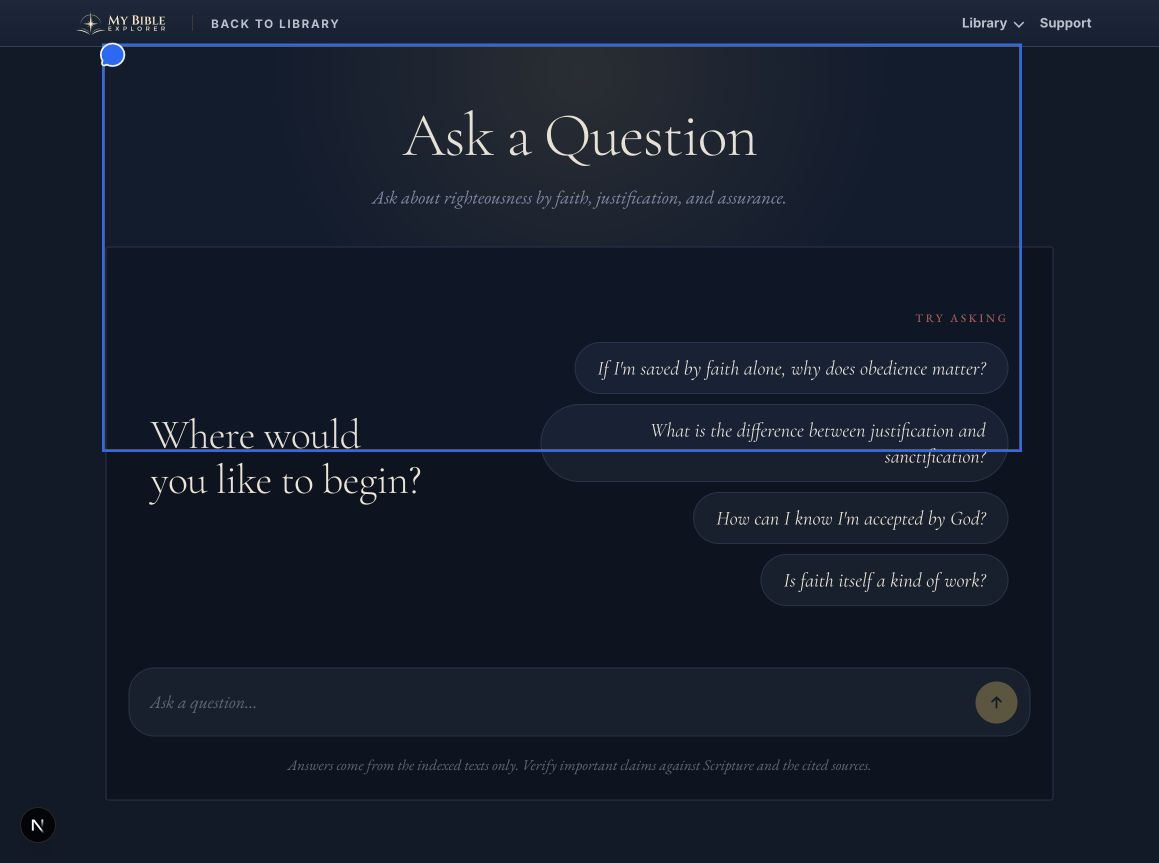
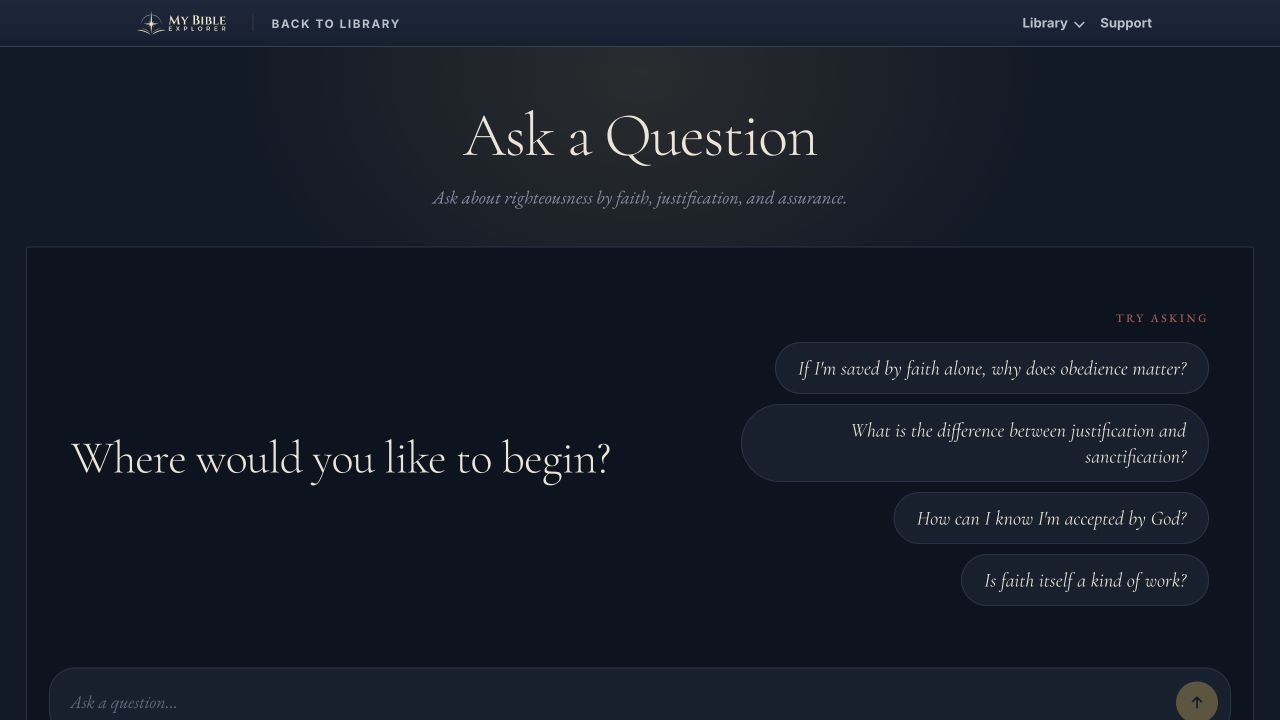
commit

diff --git a/index.html b/index.html
@@ -455,7 +455,7 @@
       <!-- SET A -->
       <a class="frame" href="https://salvation.mybibleexplorer.com/" target="_blank" rel="noopener noreferrer">
         <div class="chrome"><span class="dots"><i></i><i></i><i></i></span><span class="addr">salvation.mybibleexplorer.com</span></div>
-        <div class="shot s-salvation"><img src="screenshots/salvation.png?v=20260908" alt="Salvation: ask about righteousness by faith" loading="lazy" decoding="async" onerror="this.remove()" onload="this.parentNode.classList.add('has-img')"><h4>Salvation</h4></div>
+        <div class="shot s-salvation"><img src="screenshots/salvation.png?v=20260908b" alt="Salvation: ask about righteousness by faith" loading="lazy" decoding="async" onerror="this.remove()" onload="this.parentNode.classList.add('has-img')"><h4>Salvation</h4></div>
         <div class="cap"><div class="nm">Salvation</div></div>
       </a>
       <a class="frame" href="https://hermeneutics.mybibleexplorer.com" target="_blank" rel="noopener noreferrer">
@@ -546,7 +546,7 @@
       <!-- SET B (duplicate for seamless loop) -->
       <a class="frame" href="https://salvation.mybibleexplorer.com/" target="_blank" rel="noopener noreferrer" aria-hidden="true" tabindex="-1">
         <div class="chrome"><span class="dots"><i></i><i></i><i></i></span><span class="addr">salvation.mybibleexplorer.com</span></div>
-        <div class="shot s-salvation"><img src="screenshots/salvation.png?v=20260908" alt="Salvation: ask about righteousness by faith" loading="lazy" decoding="async" onerror="this.remove()" onload="this.parentNode.classList.add('has-img')"><h4>Salvation</h4></div>
+        <div class="shot s-salvation"><img src="screenshots/salvation.png?v=20260908b" alt="Salvation: ask about righteousness by faith" loading="lazy" decoding="async" onerror="this.remove()" onload="this.parentNode.classList.add('has-img')"><h4>Salvation</h4></div>
         <div class="cap"><div class="nm">Salvation</div></div>
       </a>
       <a class="frame" href="https://hermeneutics.mybibleexplorer.com" target="_blank" rel="noopener noreferrer" aria-hidden="true" tabindex="-1">
